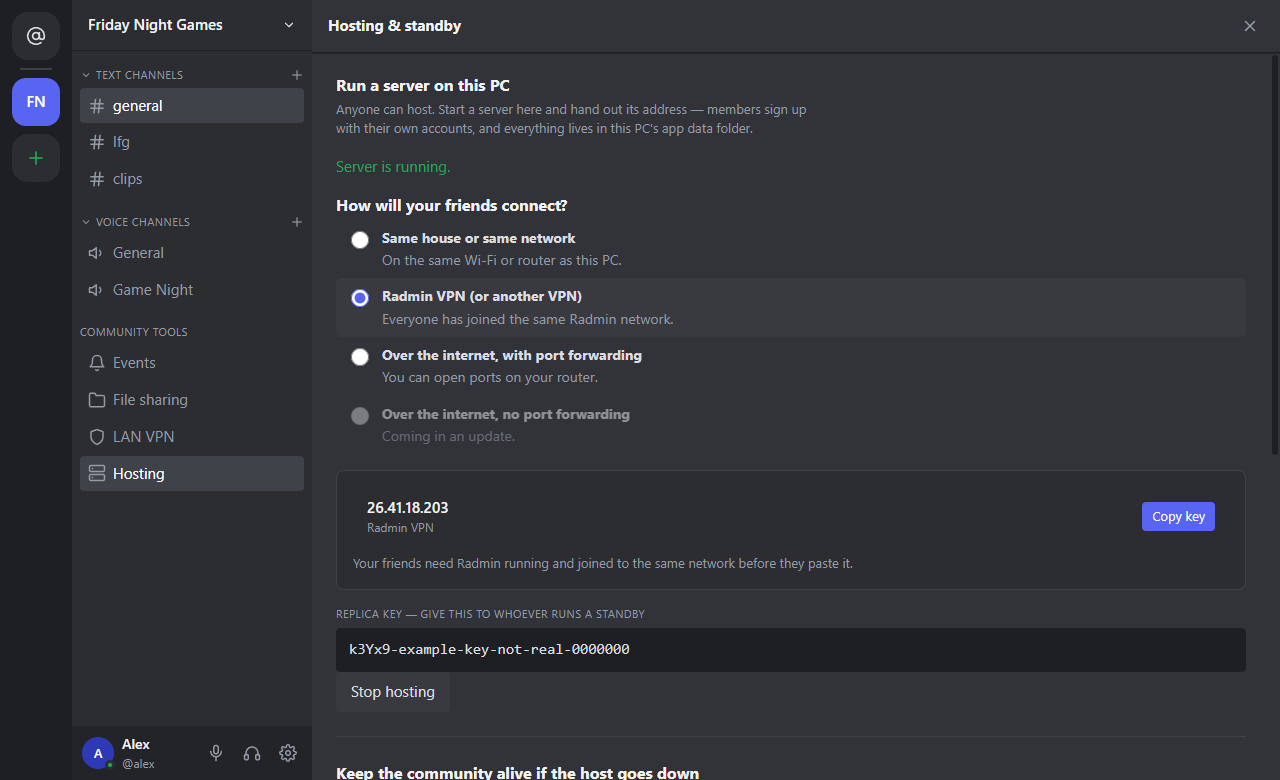
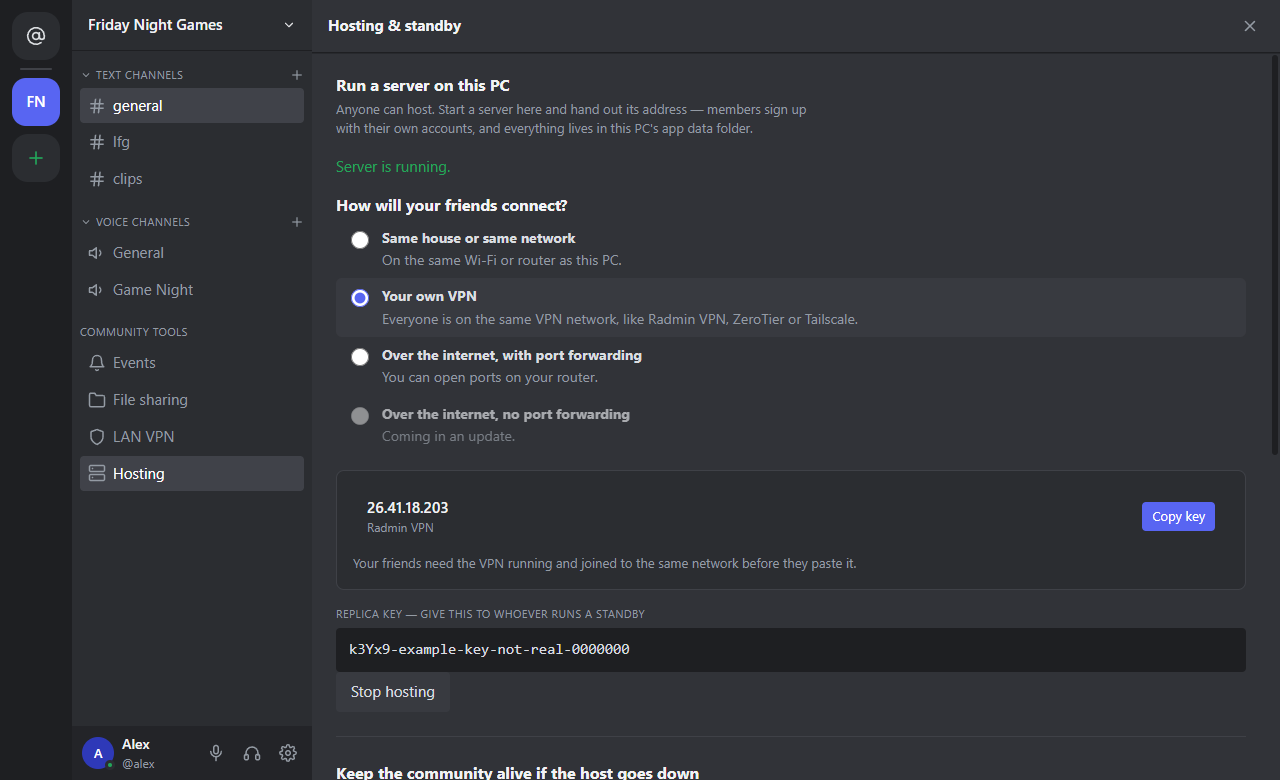
Docs: "your own VPN" with Radmin VPN, ZeroTier and Tailscale as examples; new hosting screenshot

Changed region(s): [[0.2812, 0.3692, 0.6562, 0.4308], [0.3438, 0.7077, 0.6562, 0.7385], [0.3125, 0.5231, 0.5, 0.5538]]

diff --git a/HOSTING.md b/HOSTING.md
@@ -13,7 +13,7 @@ When you host, the app asks the same question and gives you the right key:
 | Where your friends are | What you need | Status |
 |---|---|---|
 | [Same house or same network](#1-same-house-or-same-network) | Nothing | Works now |
-| [Everyone on Radmin (or another VPN)](#2-everyone-on-radmin-or-another-vpn) | Everyone in the same Radmin network | Works now |
+| [On your own VPN](#2-on-your-own-vpn) (like Radmin VPN, ZeroTier or Tailscale) | Everyone on the same VPN network | Works now |
 | [Anywhere, with port forwarding](#3-anywhere-with-port-forwarding) | Three ports forwarded on the host's router | Works now |
 | [Anywhere, no port forwarding](#4-anywhere-no-port-forwarding-coming-soon) | Nothing | Coming in an update |
 
@@ -29,8 +29,11 @@ When you host, the app asks the same question and gives you the right key:
 2. The app shows a **connect key** for your network address. Send it to your friends.
 3. **Friends:** open p2pchat, choose **Join**, and paste the connect key.
 
-## 2. Everyone on Radmin (or another VPN)
-Same as section 1. The host gets a connect key for each network the PC is on, so send the one marked **Radmin VPN**.
+## 2. On your own VPN
+If your group already shares a VPN, like **Radmin VPN**, **ZeroTier** or **Tailscale**:
+1. Everyone installs it and joins the same network.
+2. The host picks **Your own VPN** under *How will your friends connect?* and copies the key it shows.
+3. Friends paste the key, as in section 1.
 
 ## 3. Anywhere, with port forwarding
 1. On the host's router, forward these to the host PC:

diff --git a/README.md b/README.md
@@ -51,7 +51,7 @@ invites. The difference is **where it lives**. With p2pchat:
 
 <p align="center">
   <img src="docs/screenshots/welcome.png" alt="The welcome screen: paste an invite key or host a server" width="420">
-  <img src="docs/screenshots/hosting.png" alt="How will your friends connect: same network, Radmin, port forwarding" width="420">
+  <img src="docs/screenshots/hosting.png" alt="How will your friends connect: same network, your own VPN, port forwarding" width="420">
 </p>
 
 ### How will your friends connect?
@@ -59,7 +59,7 @@ invites. The difference is **where it lives**. With p2pchat:
 | Where your friends are | What you need | Status |
 |---|---|---|
 | Same house or same network | Nothing | ✅ Works now |
-| Everyone on [Radmin VPN](https://www.radmin-vpn.com/) | Everyone in the same Radmin network | ✅ Works now |
+| On your own VPN, like [Radmin VPN](https://www.radmin-vpn.com/), [ZeroTier](https://www.zerotier.com/) or [Tailscale](https://tailscale.com/) | Everyone on the same VPN network | ✅ Works now |
 | Anywhere, with port forwarding | Three ports opened on the host's router | ✅ Works now |
 | Anywhere, **no port forwarding** | Nothing: friends click an invite | 🛠 Coming in an update |
 
